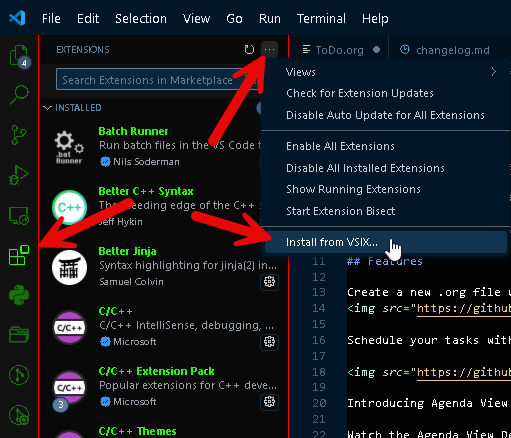
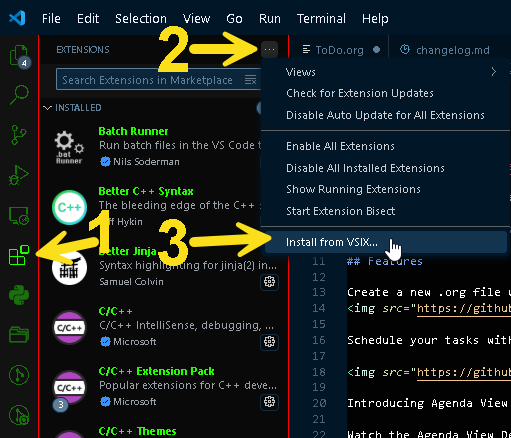
Updated readme to include arrows for release install instructions

Changed region(s): [[0.2935, 0.0594, 0.5284, 0.3562], [0.2935, 0.4749, 0.5284, 0.6233], [0.0587, 0.4452, 0.2642, 0.6233]]

diff --git a/README.md b/README.md
@@ -37,7 +37,7 @@ FULL DEMO:
 
 To install org-vscode, open Visual Studio Code, launch VS Code quick open (Ctrl + p or Cmd + p (mac)) and paste this `ext install realdestroyer.org-vscode`
 
---or--
+--or--<br>
 Download the .vsix file located in the [Releases](https://github.com/realDestroyer/org-vscode/releases/download/beta/org-vscode-0.0.1.vsix)
 Then, navigate to the extensions tab in VSCode and select "Install from VSIX"
 <img src="https://github.com/realdestroyer/org-vscode/blob/master/Images/install-vsix.png?raw=true" width="700" height="400" />
